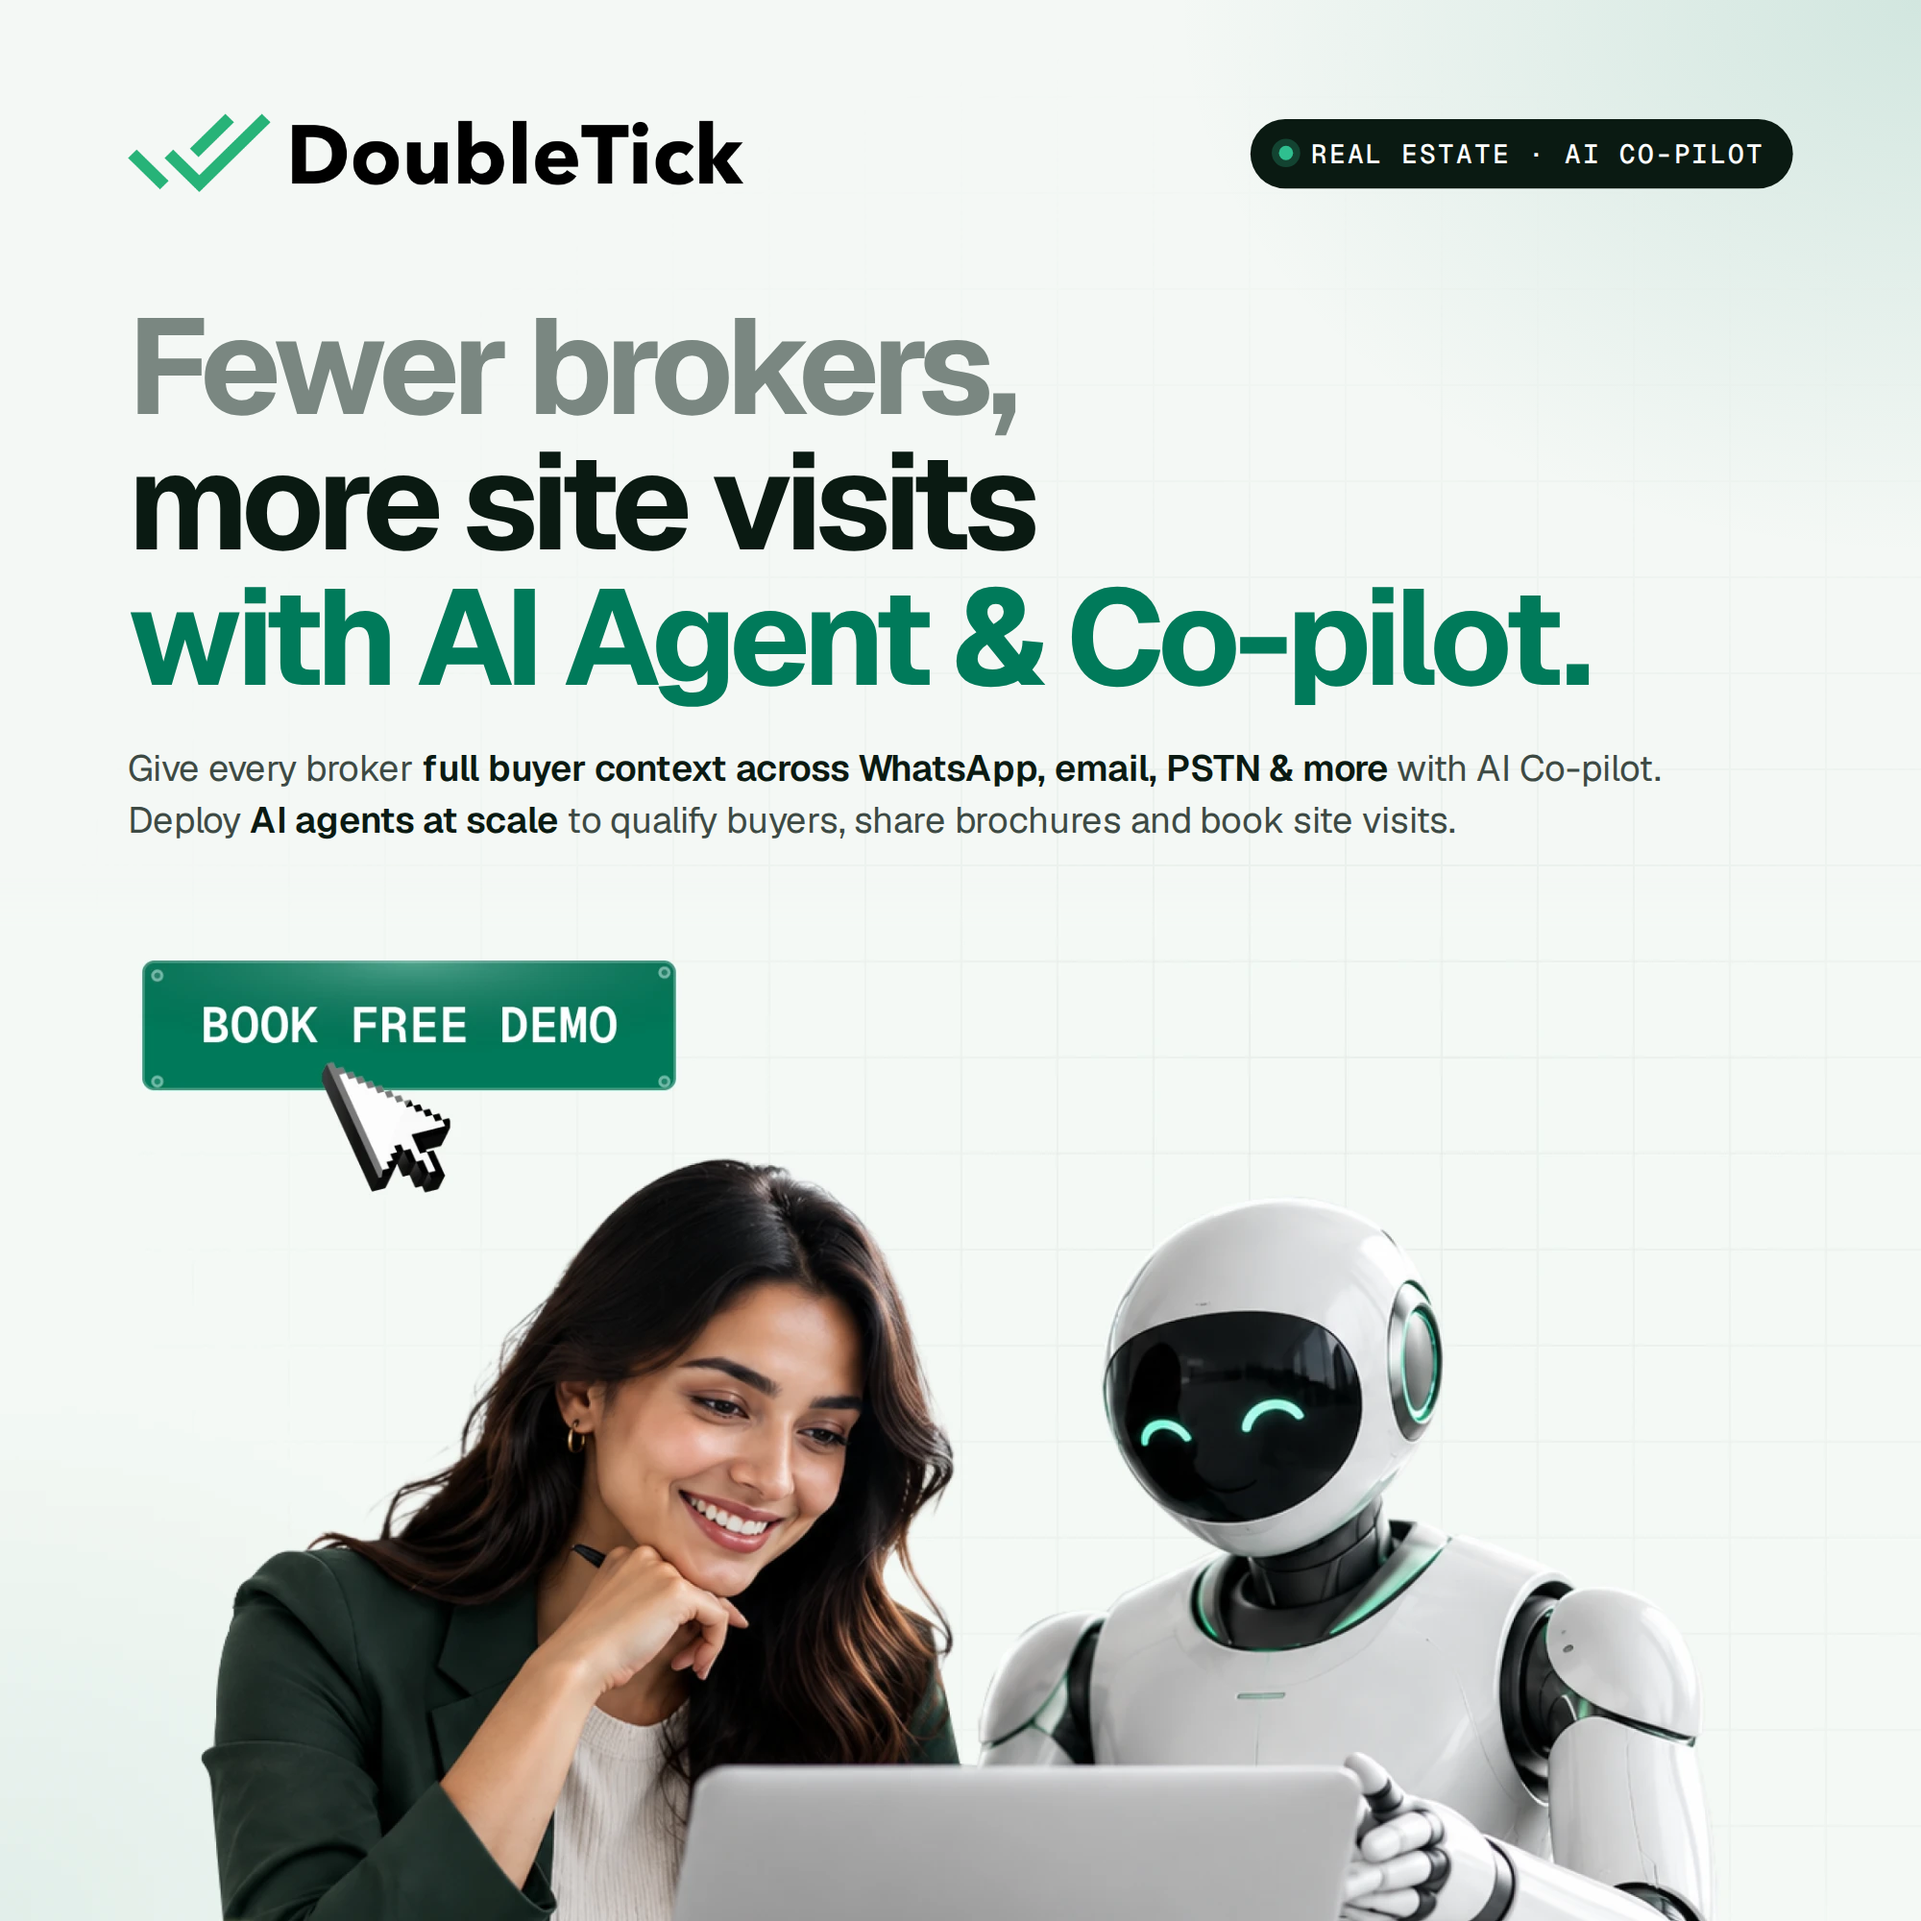
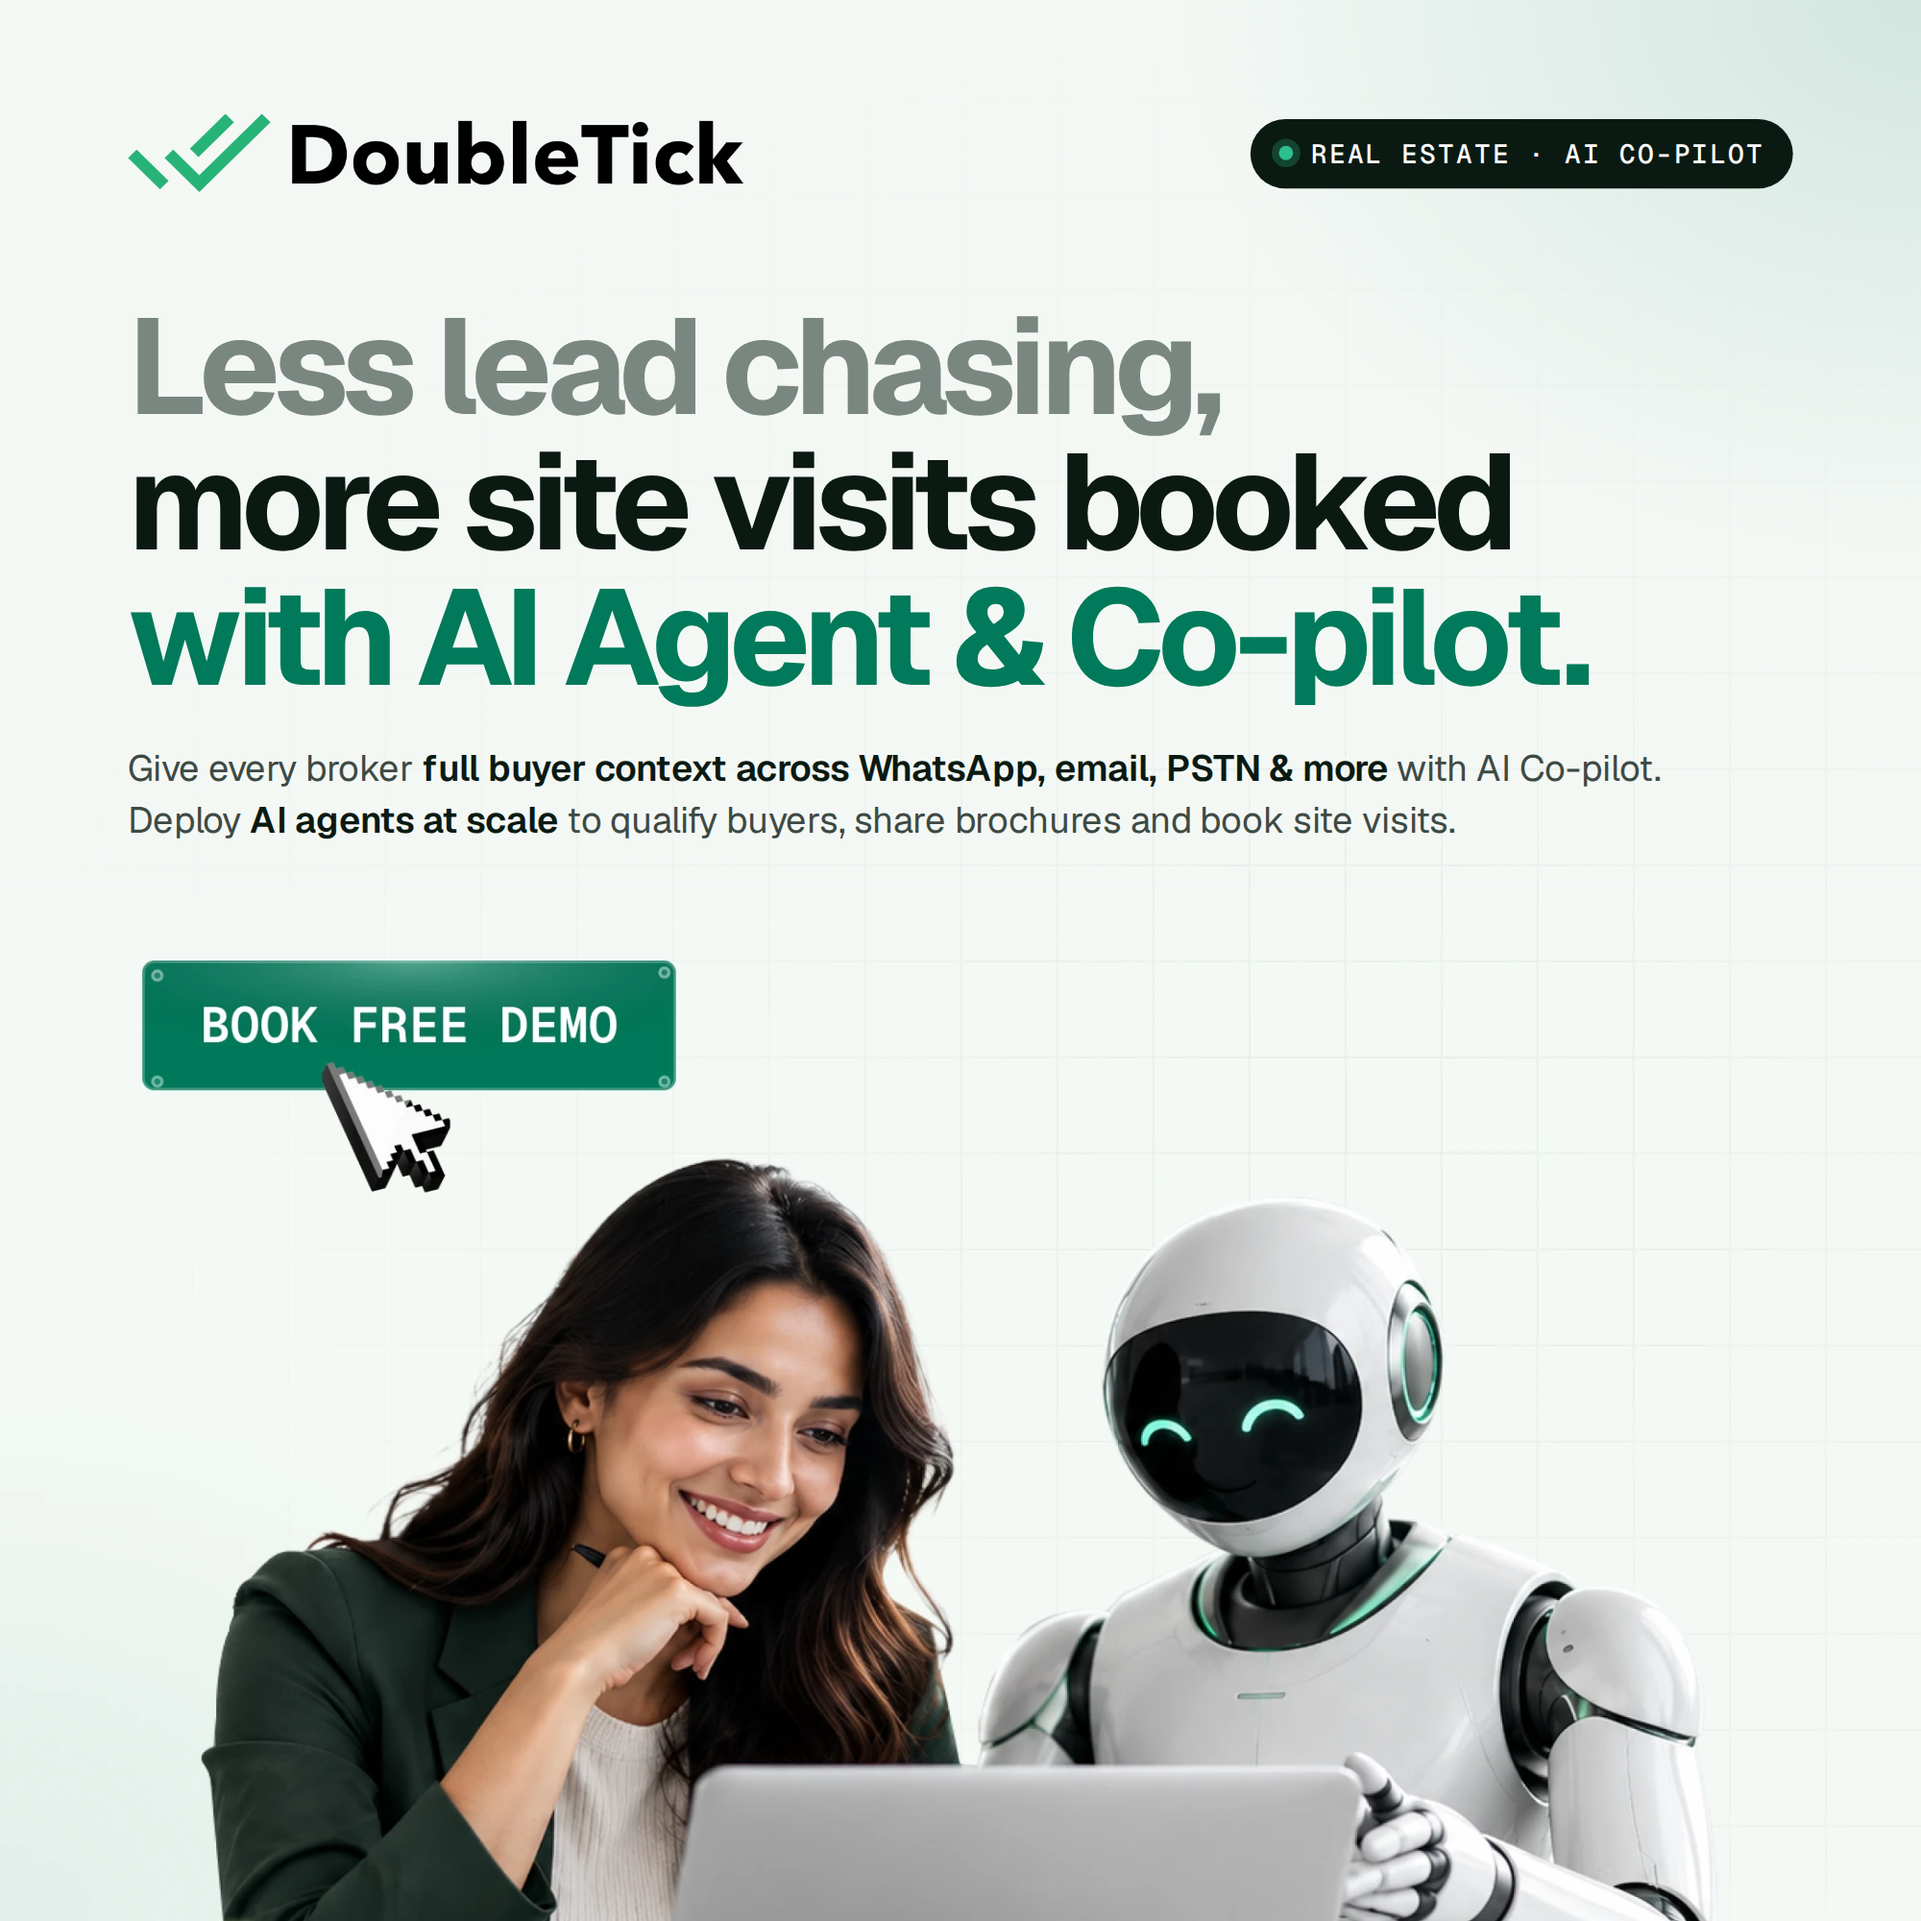
feat: sharpen real estate co-pilot ad headline
Claude-Session: https://claude.ai/code/session_013Hi5o4KgvuLbKTeGkStAKX

Changed region(s): [[0.062, 0.155, 0.806, 0.31]]

diff --git a/ads/doubletick-ai-copilot-real-estate/index.html b/ads/doubletick-ai-copilot-real-estate/index.html
@@ -111,7 +111,7 @@
     <div class="pill mono"><i></i>Real Estate · AI Co-pilot</div>
   </div>
 
-  <h1><span class="less">Fewer brokers,</span><br/>more site visits<br/><em>with AI Agent &amp; Co-pilot.</em></h1>
+  <h1><span class="less">Less lead chasing,</span><br/>more site visits booked<br/><em>with AI Agent &amp; Co-pilot.</em></h1>
   <p class="sub">Give every broker <b>full buyer context across WhatsApp, email, PSTN &amp; more</b> with AI&nbsp;Co-pilot.<br/>Deploy <b>AI agents at scale</b> to qualify buyers, share brochures and book site visits.</p>
 
 </div>
